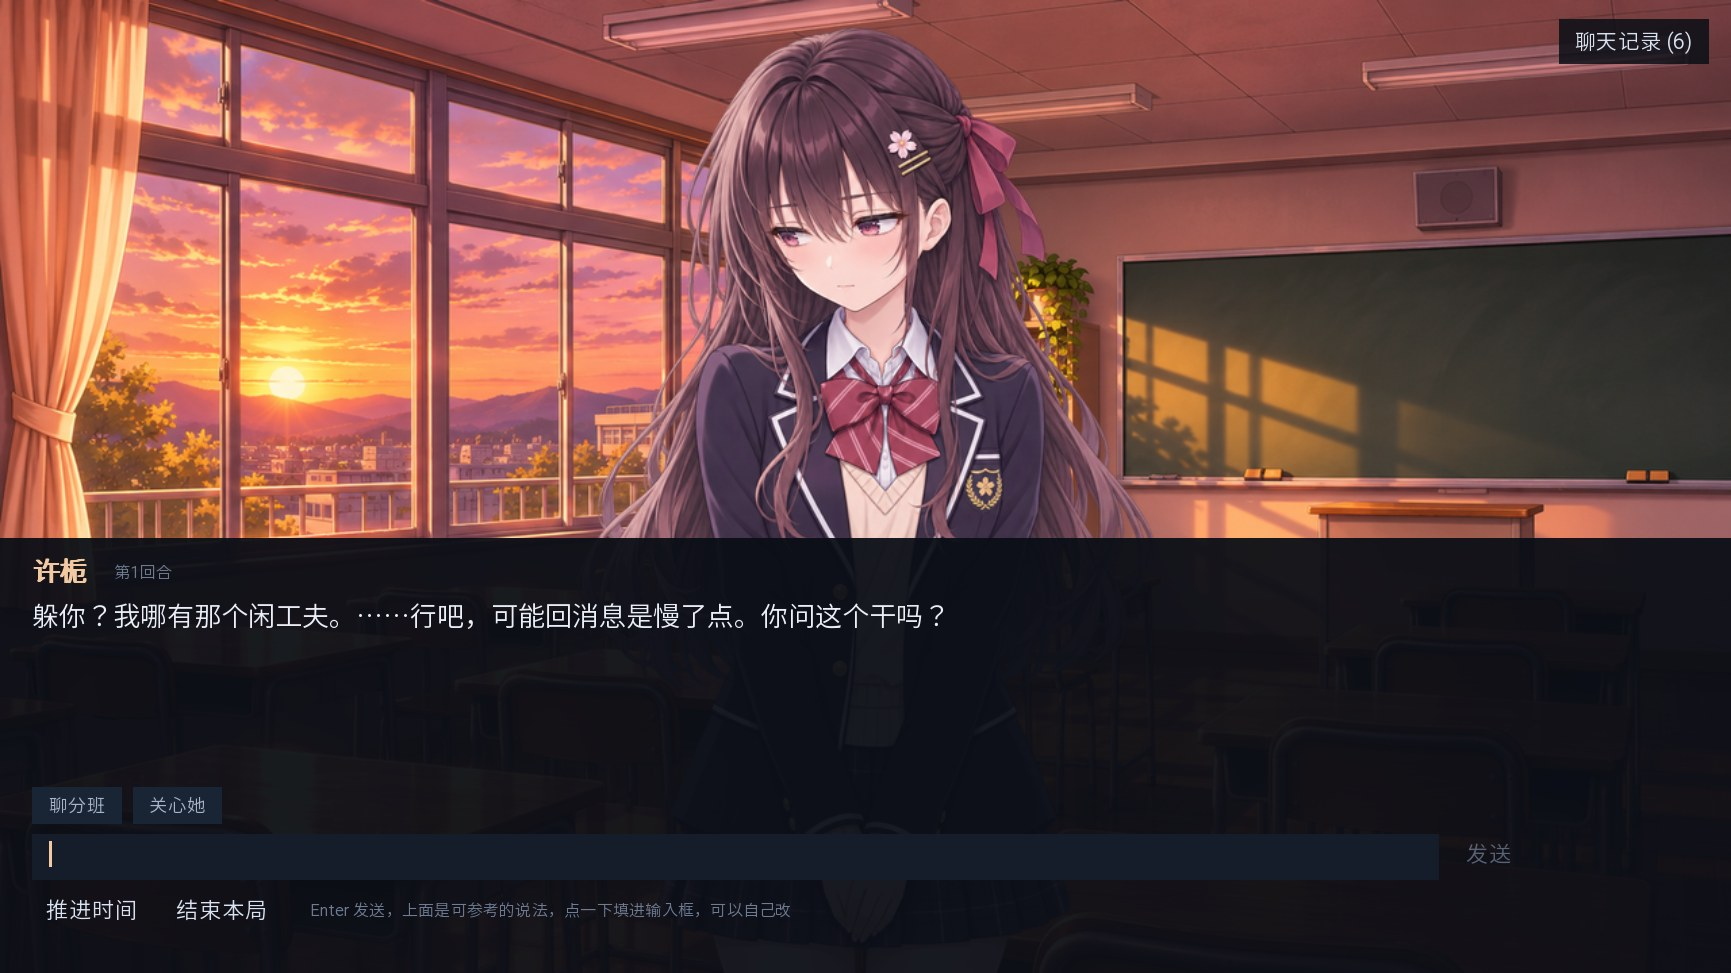
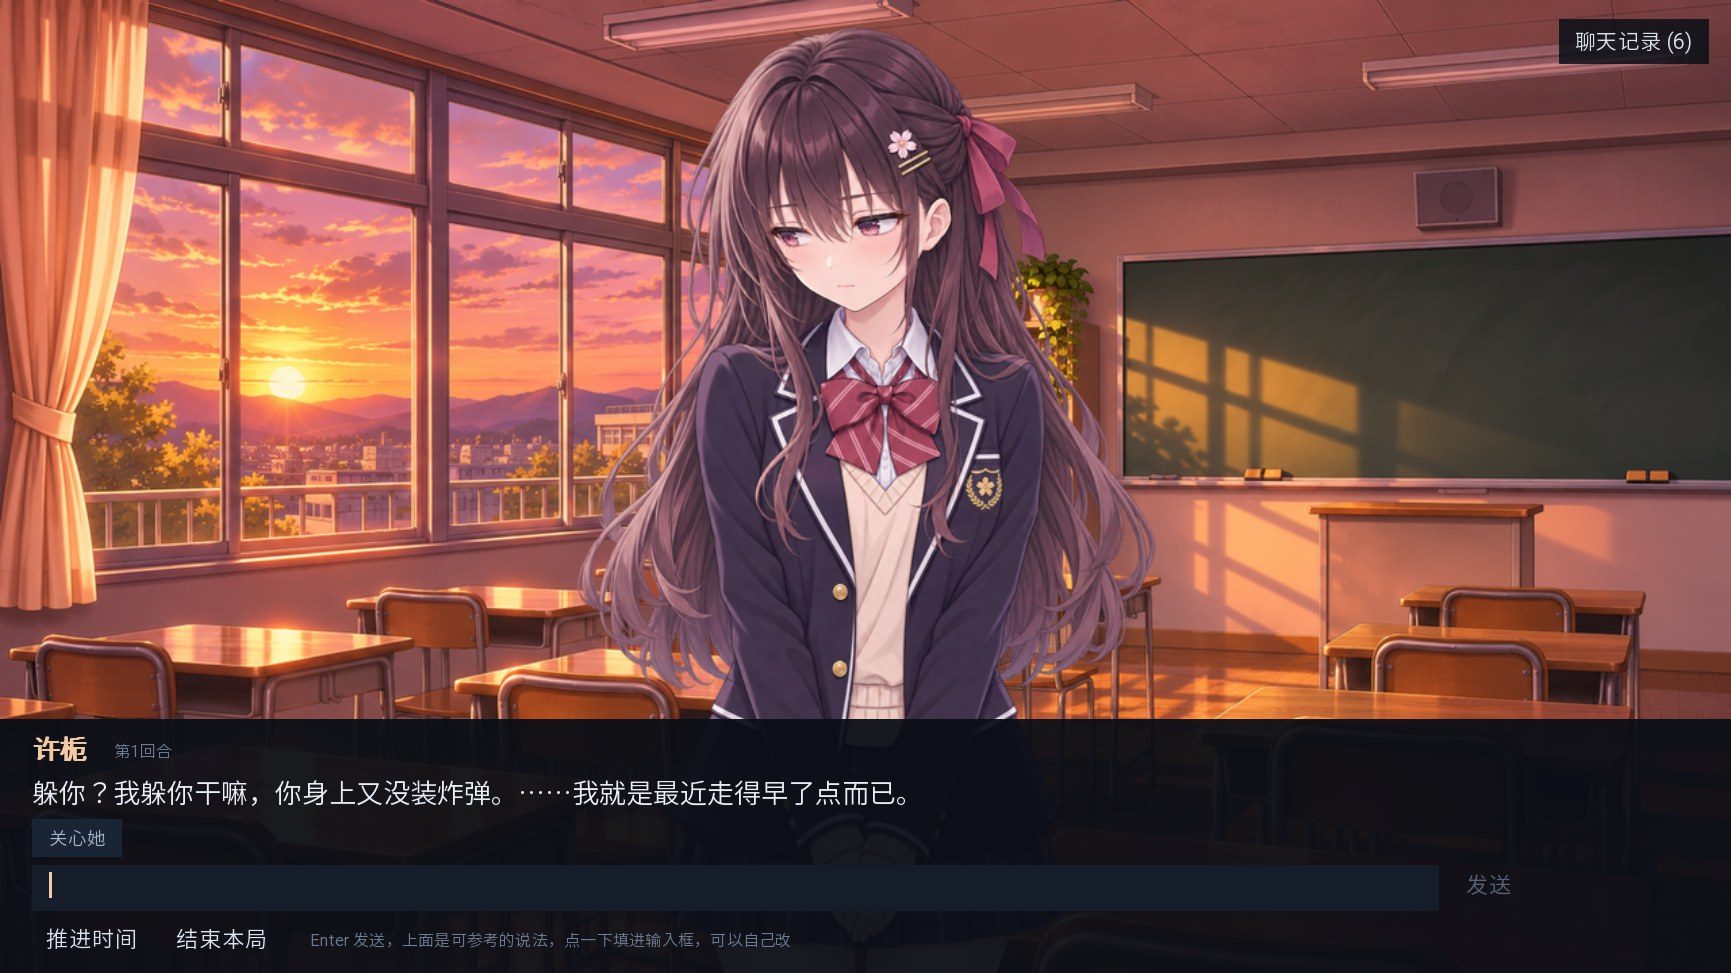
UI: auto-height bottom panel (fit current text); hide already-used reply suggestions

diff --git a/docs/V0.3_ACCEPTANCE.md b/docs/V0.3_ACCEPTANCE.md
@@ -153,6 +153,8 @@ $ .venv\Scripts\python.exe -m pytest -q
 | 事件连播 | 事件刚结束的一轮不排新事件（`last_storylet_resolved_turn`），留一轮呼吸 |
 | 节奏偏短 | 默认预算 12 → 14；结局资格要求 `turn_index >= 13`；硬收束按回合数封顶（17），不会无限拖 |
 | 面板混排 | 底部拆成旁白页（只显示旁白 + 继续）与对话页（只显示她这一句 + 建议 + 输入框）；完整记录仍在右上角抽屉 |
+| 面板过高 | 不再固定 322px，高度按当前文字行数自适应，旁白页/对话页都只占需要的高度 |
+| 提示重复 | 已点过（或手动发过同样文本）的建议写入 `used_suggestions`，后续过滤不再出现；同一轮重复文本也只保留一个 |
 
 验证：
 
